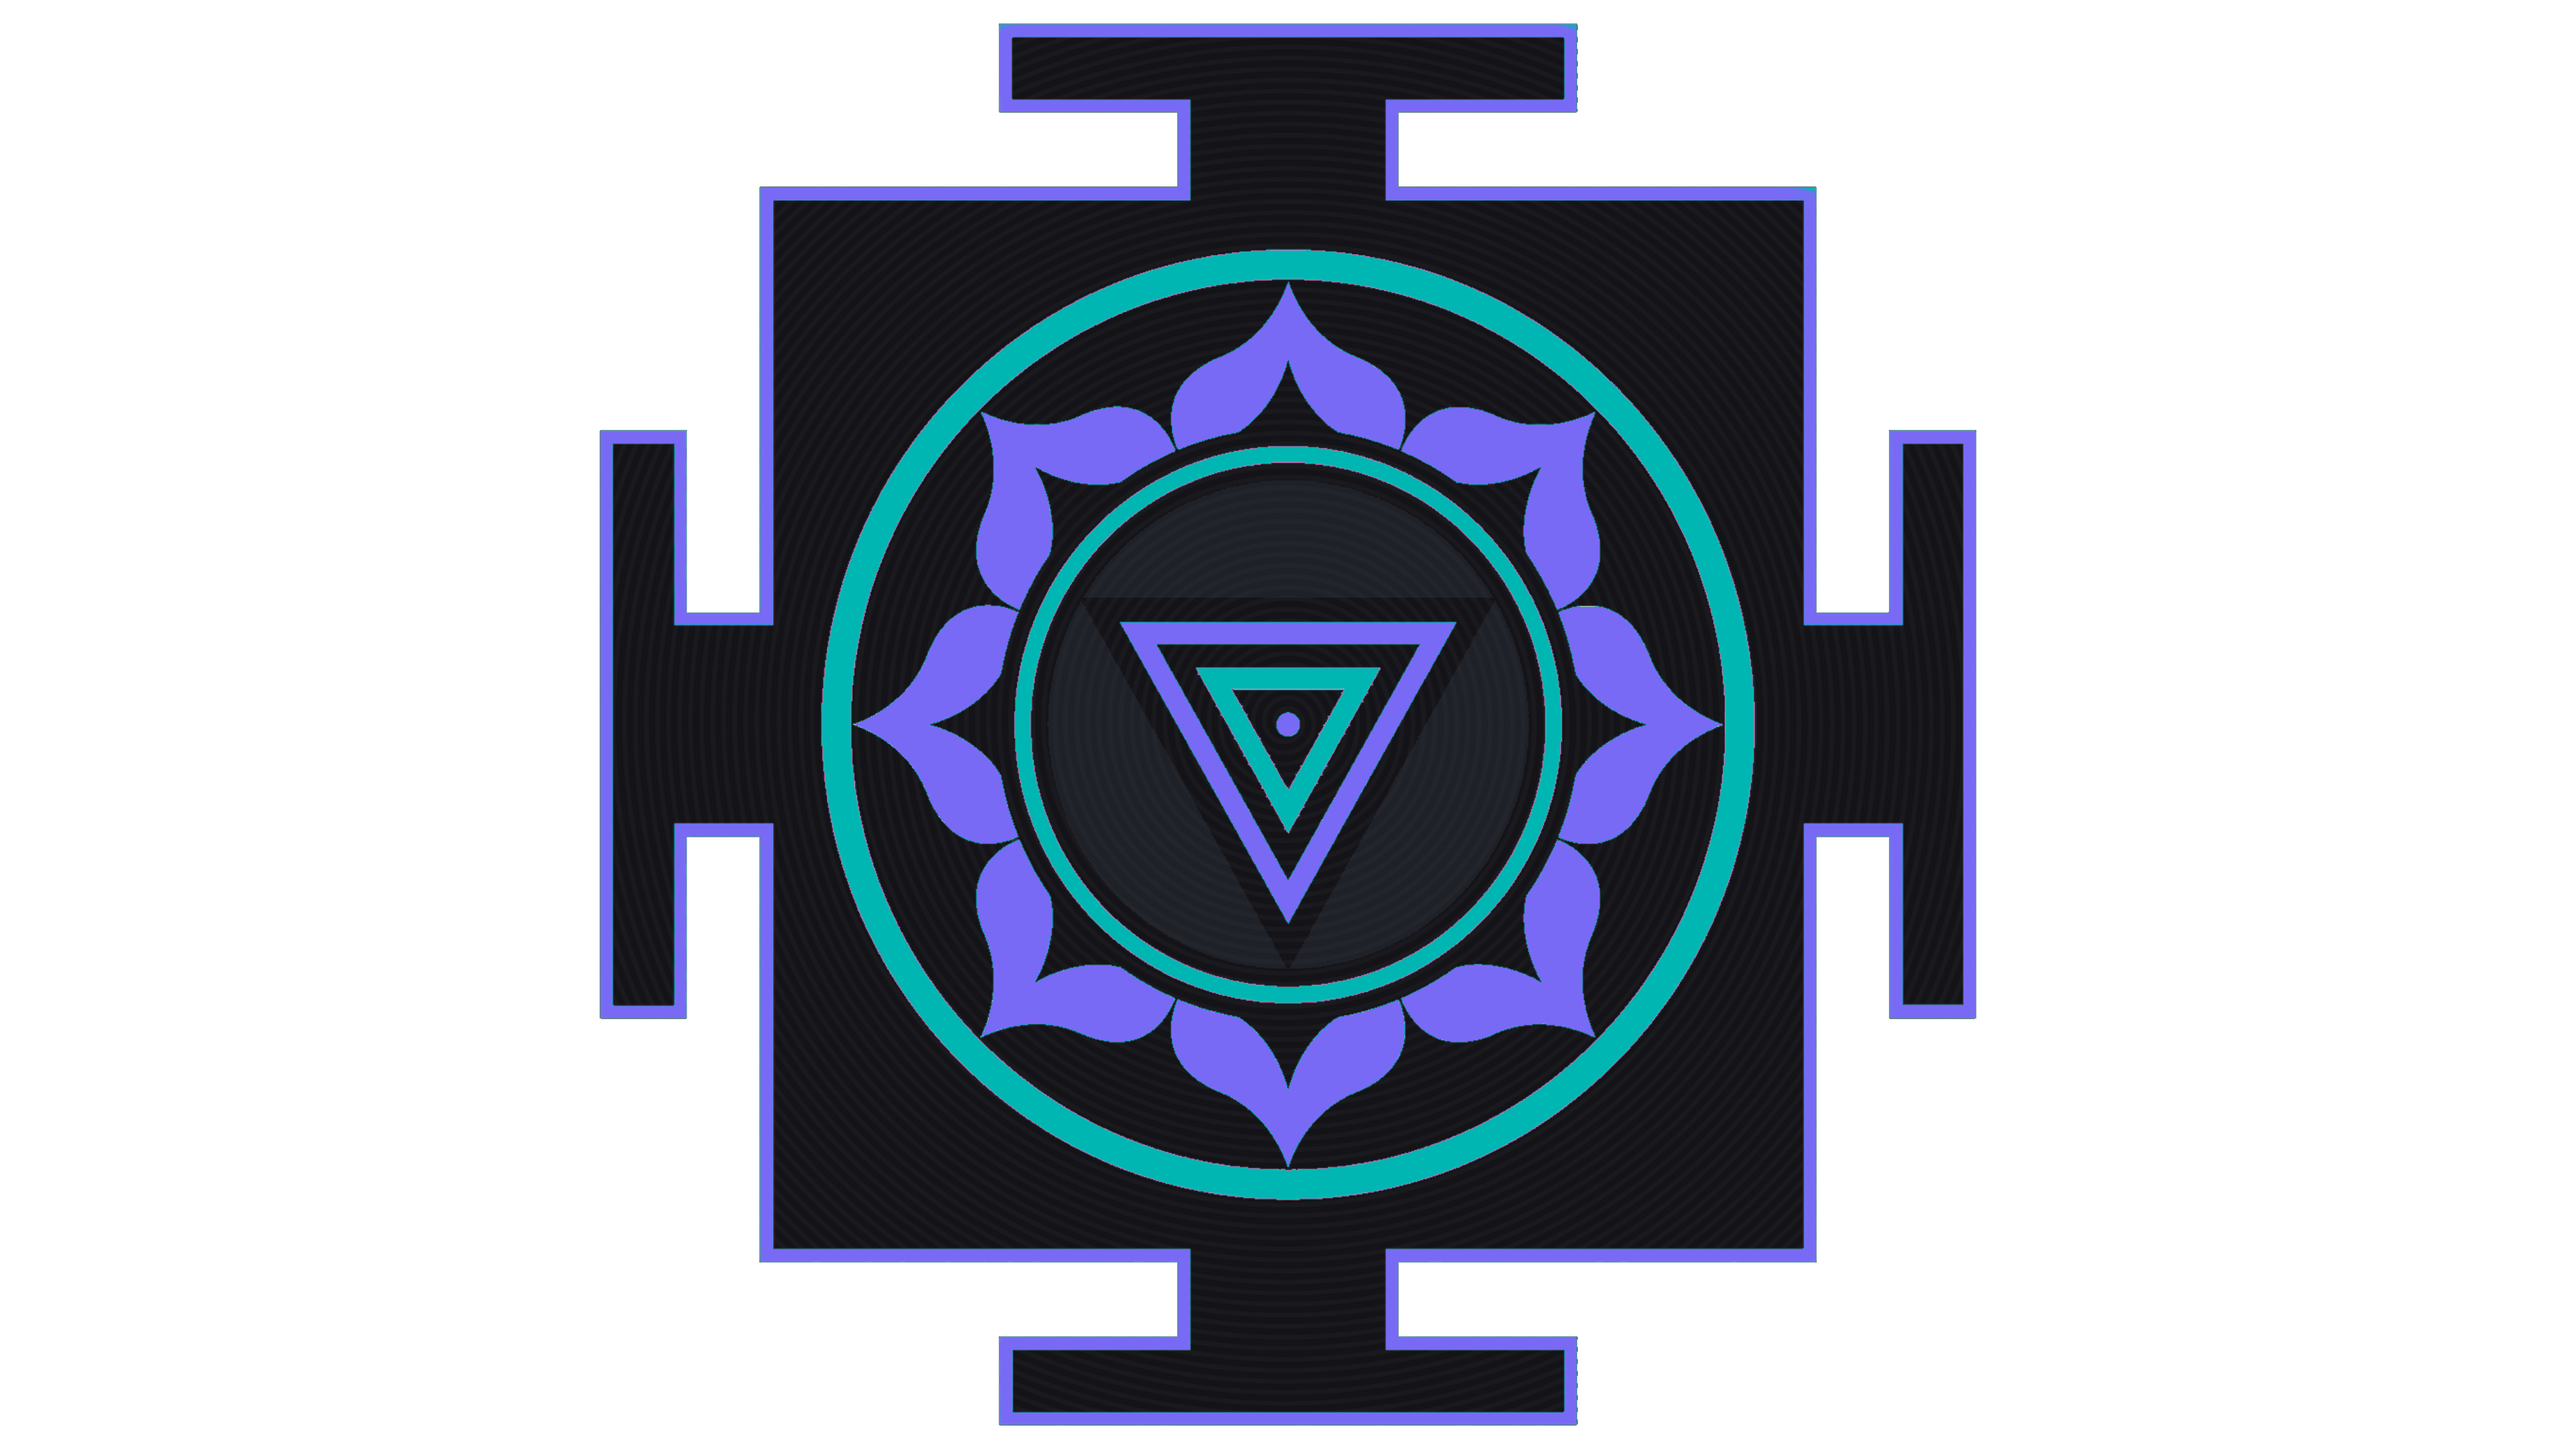
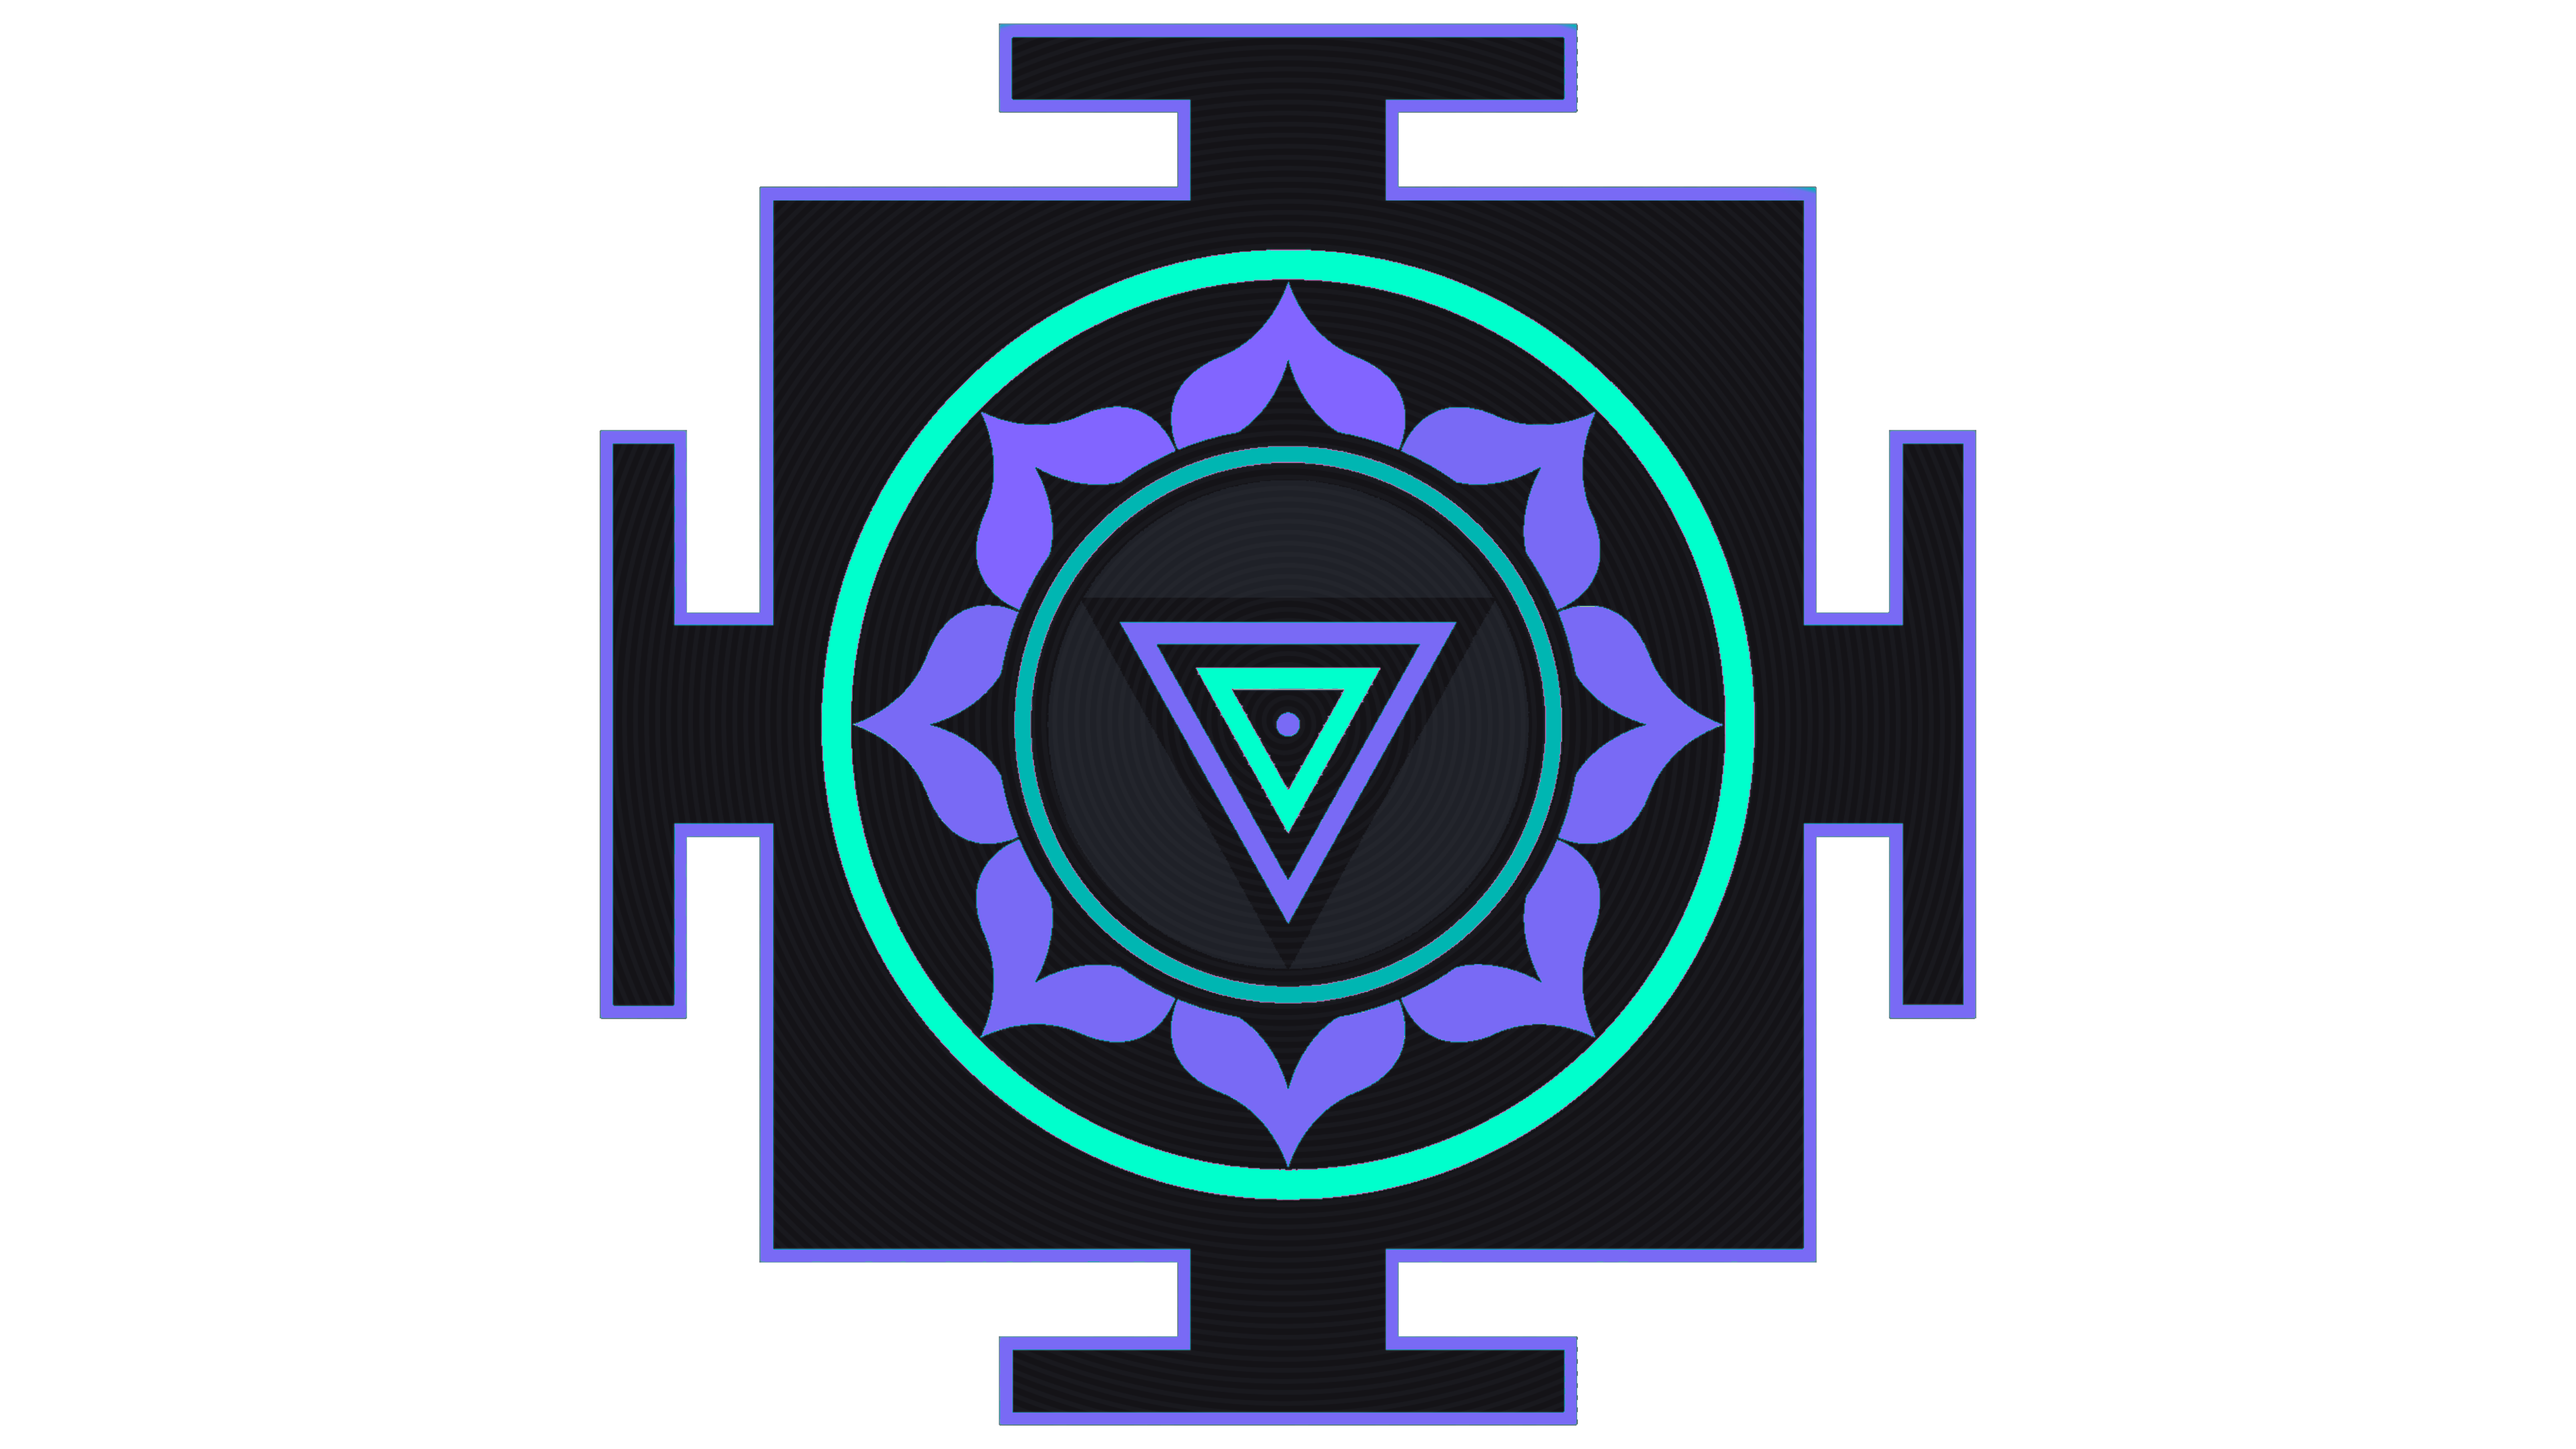
update scheme

diff --git a/vice.html b/vice.html
@@ -1,132 +1,58 @@
 <html>
   <head>
-    <meta http-equiv="content-type" content="text/html" />
-    <title>Vice Base16 Theme</title>
+    <!-- HTML Preview Template -->
+    <!-- Chris Kempson (http://chriskempson.com) -->
+    <meta http-equiv="content-type" content="text/html">
+    <title>Base16 oomox-xresources3</title>
     <style type="text/css" media="screen">
-      body {
-        margin: 5% 20%;
-      }
-      .scheme,
-      .author,
-      pre,
-      .block {
-        font-family: "menlo", "consolas", monospace;
-      }
-      .block {
-        display: inline-block;
-        font-size: 13px;
-        font-weight: bold;
-        padding: 15px;
-        margin: 0 5px 10px 0;
-      }
-      pre {
-        font-size: 14px;
-        padding: 10px 20px;
-      }
-
-      .base00-background {
-        background-color: #1f2023;
-      }
-      .base01-background {
-        background-color: #23262c;
-      }
-      .base02-background {
-        background-color: #313040;
-      }
-      .base03-background {
-        background-color: #3a3f49;
-      }
-      .base04-background {
-        background-color: #525d73;
-      }
-      .base05-background {
-        background-color: #8b9cbe;
-      }
-      .base06-background {
-        background-color: #b2bfd9;
-      }
-      .base07-background {
-        background-color: #e9efff;
-      }
-      .base08-background {
-        background-color: #ff9cff;
-      }
-      .base09-background {
-        background-color: #796af5;
-      }
-      .base0A-background {
-        background-color: #f0ee6e;
-      }
-      .base0C-background {
-        background-color: #00eaff;
-      }
-      .base0B-background {
-        background-color: #6fffff;
-      }
-      .base0D-background {
-        background-color: #00caff;
-      }
-      .base0E-background {
-        background-color: #50b0ff;
-      }
-      .base0F-background {
-        background-color: #f850ac;
-      }
-
-      .base00 {
-        color: #1f2023;
-      }
-      .base01 {
-        color: #23262c;
-      }
-      .base02 {
-        color: #313040;
-      }
-      .base03 {
-        color: #3a3f49;
-      }
-      .base04 {
-        color: #525d73;
-      }
-
-      .base05 {
-        color: #8b9cbe;
-      }
-      .base06 {
-        color: #b2bfd9;
-      }
-      .base07 {
-        color: #e9efff;
-      }
-      .base08 {
-        color: #ff9cff;
-      }
-      .base09 {
-        color: #796af5;
-      }
-      .base0A {
-        color: #f0ee6e;
-      }
-      .base0C {
-        color: #00eaff;
-      }
-      .base0B {
-        color: #6fffff;
-      }
-      .base0D {
-        color: #00caff;
-      }
-      .base0E {
-        color: #50b0ff;
-      }
-      .base0F {
-        color: #f850ac;
-      }
+      body { margin: 5% 20%; }
+      .scheme, .author, pre, .block { font-family: "menlo", "consolas", monospace; }
+  	  .block { display: inline-block; font-size: 13px; font-weight: bold; padding: 15px; margin: 0 5px 10px 0; }
+  	  pre {
+  	    font-size: 14px;
+  	    padding: 10px 20px;
+  	  }
+  	  
+      .base00-background { background-color: #17191E; }
+      .base01-background { background-color: #17191E; }
+      .base02-background { background-color: #555e70; }
+      .base03-background { background-color: #515a6e; }
+      .base04-background { background-color: #2b2d32; }
+      .base05-background { background-color: #8b9cbe; }
+      .base06-background { background-color: #8b9cbe; }
+      .base07-background { background-color: #f4f4f7; }
+      .base08-background { background-color: #ff3d81; }
+      .base09-background { background-color: #f0ffaa; }
+      .base0A-background { background-color: #f9f871; }
+      .base0B-background { background-color: #00ffcc; }
+      .base0C-background { background-color: #00fae9; }
+      .base0D-background { background-color: #00caff; }
+      .base0E-background { background-color: #6C71C4; }
+      .base0F-background { background-color: #e38a81; }
+      
+      .base00 { color: #17191E; }
+      .base01 { color: #17191E; }
+      .base02 { color: #555e70; }
+      .base03 { color: #515a6e; }
+      .base04 { color: #2b2d32; }
+      .base05 { color: #8b9cbe; }
+      .base06 { color: #8b9cbe; }
+      .base07 { color: #f4f4f7; }
+      .base08 { color: #ff3d81; }
+      .base09 { color: #f0ffaa; }
+      .base0A { color: #f9f871; }
+      .base0B { color: #00ffcc; }
+      .base0C { color: #00fae9; }
+      .base0D { color: #00caff; }
+      .base0E { color: #6C71C4; }
+      .base0F { color: #e38a81; }
     </style>
   </head>
   <body>
-    <h1 class="scheme">Vice Base16 Theme</h1>
-    <p class="author">Scheme author: Thomas Leon Highbaugh</p>
+
+    <h1 class="scheme">Base16 oomox-xresources3</h1>
+    <p class="author">Scheme author: oomox-xresources3</p>
+    
     <div>
       <div class="block base00-background base07">00</div>
       <div class="block base01-background base07">01</div>
@@ -148,6 +74,7 @@
     </div>
 
     <div>
+
       <pre class="base00-background base05">
 <span class="base0E">require</span> <span class="base0B">"gem"</span>
 
@@ -178,6 +105,7 @@
 <span class="base0D">print</span> <span class="base0A">Person</span>::<span class="base0D">greet</span>, <span class="base0B">" "</span>, <span class="base08">person1</span>.<span class="base0D">name</span>, <span class="base0B">"<span class="base09">\n</span>"</span>
 <span class="base0D">puts</span> <span class="base0B">"another </span><span class="base0F">#{</span><span class="base0A">Person</span>::<span class="base0D">greet</span><span class="base0F">}</span> <span class="base0F">#{</span><span class="base08">person1</span>.<span class="base0D">name</span><span class="base0F">}</span><span class="base0B">"</span>
       </pre>
+
     </div>
   </body>
 </html>

diff --git a/vice.css b/vice.css
@@ -1,36 +1,36 @@
-.base00-bg { background-color: #1F2023; }
-.base01-bg { background-color: #23262C; }
-.base02-bg { background-color: #313040; }
-.base03-bg { background-color: #807f8d; }
-.base04-bg { background-color: #030207; }
-.base05-bg { background-color: #e9e9ff; }
-.base06-bg { background-color: #e9e9ff; }
-.base07-bg { background-color: #edeeff; }
-.base08-bg { background-color: #ff9cff; }
-.base09-bg { background-color: #f9f871; }
-.base0A-bg { background-color: #f0ee6e; }
-.base0B-bg { background-color: #00b6b2; }
-.base0C-bg { background-color: #6FFFFF; }
-.base0D-bg { background-color: #61aeee; }
-.base0E-bg { background-color: #796af5; }
-.base0F-bg { background-color: #fc29a8; }
+.base00 { color: #17191E; }
+.base01 { color: #17191E; }
+.base02 { color: #555e70; }
+.base03 { color: #515a6e; }
+.base04 { color: #2b2d32; }
+.base05 { color: #8b9cbe; }
+.base06 { color: #8b9cbe; }
+.base07 { color: #f4f4f7; }
+.base08 { color: #ff3d81; }
+.base09 { color: #f0ffaa; }
+.base0A { color: #f9f871; }
+.base0B { color: #00ffcc; }
+.base0C { color: #00fae9; }
+.base0D { color: #00caff; }
+.base0E { color: #6C71C4; }
+.base0F { color: #e38a81; }
 
-.base00 { color: #1F2023; }
-.base01 { color: #23262C; }
-.base02 { color: #313040; }
-.base03 { color: #807f8d; }
-.base04 { color: #030207; }
-.base05 { color: #e9e9ff; }
-.base06 { color: #e9e9ff; }
-.base07 { color: #edeeff; }
-.base08 { color: #ff9cff; }
-.base09 { color: #f9f871; }
-.base0A { color: #f0ee6e; }
-.base0B { color: #03edf9; }
-.base0C { color: #6FFFFF; }
-.base0D { color: #61aeee; }
-.base0E { color: #796af5; }
-.base0F { color: #fc29a8; }
+.base00-background { background-color: #17191E; }
+.base01-background { background-color: #17191E; }
+.base02-background { background-color: #555e70; }
+.base03-background { background-color: #515a6e; }
+.base04-background { background-color: #2b2d32; }
+.base05-background { background-color: #8b9cbe; }
+.base06-background { background-color: #8b9cbe; }
+.base07-background { background-color: #f4f4f7; }
+.base08-background { background-color: #ff3d81; }
+.base09-background { background-color: #f0ffaa; }
+.base0A-background { background-color: #f9f871; }
+.base0B-background { background-color: #00ffcc; }
+.base0C-background { background-color: #00fae9; }
+.base0D-background { background-color: #00caff; }
+.base0E-background { background-color: #6C71C4; }
+.base0F-background { background-color: #e38a81; }
 
 
 
